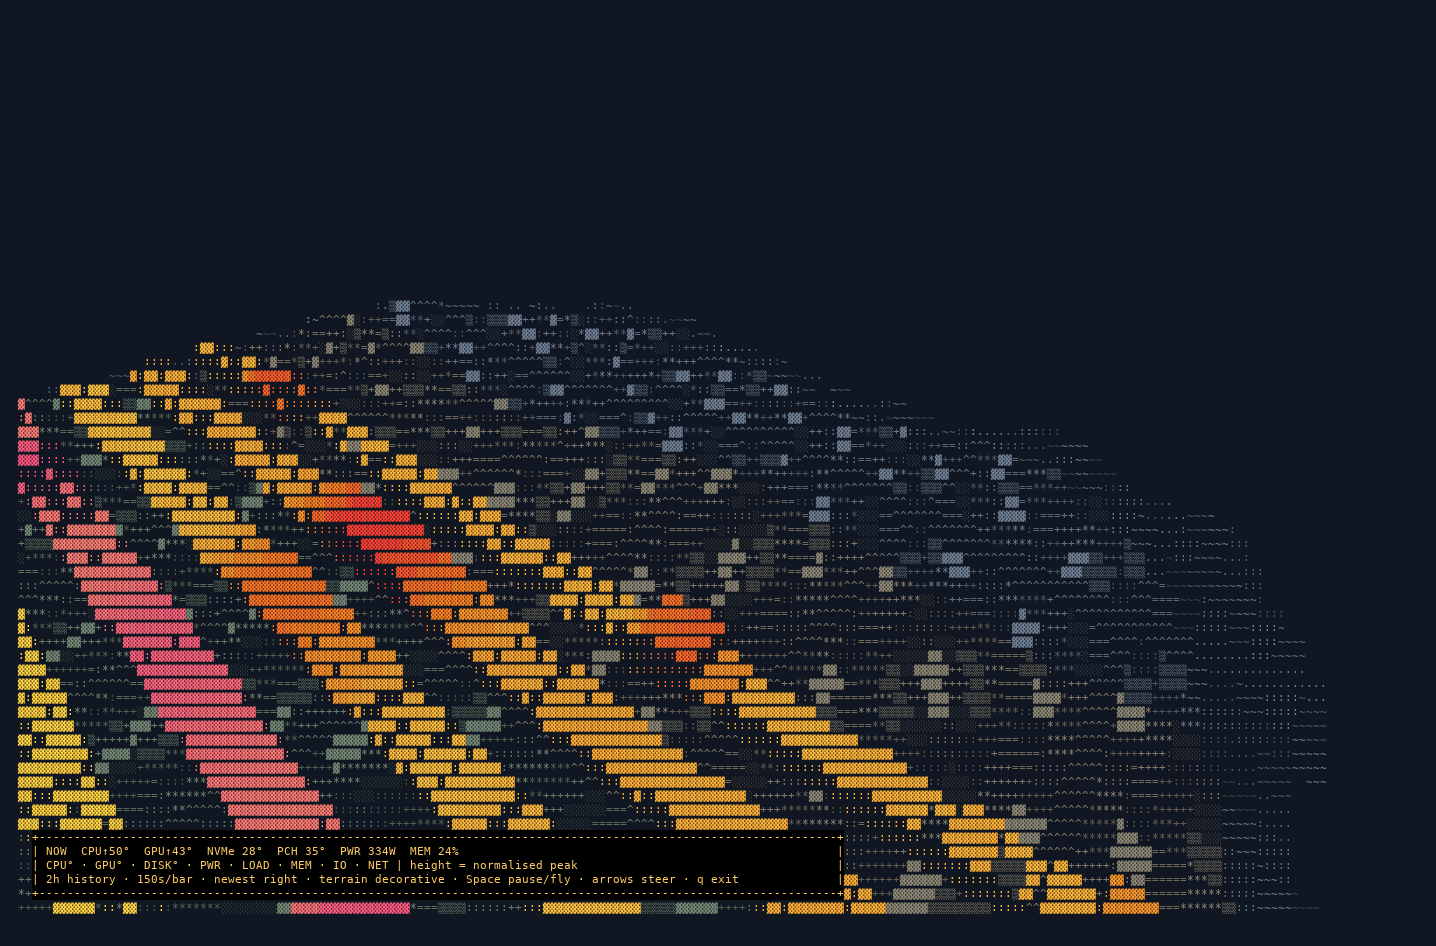
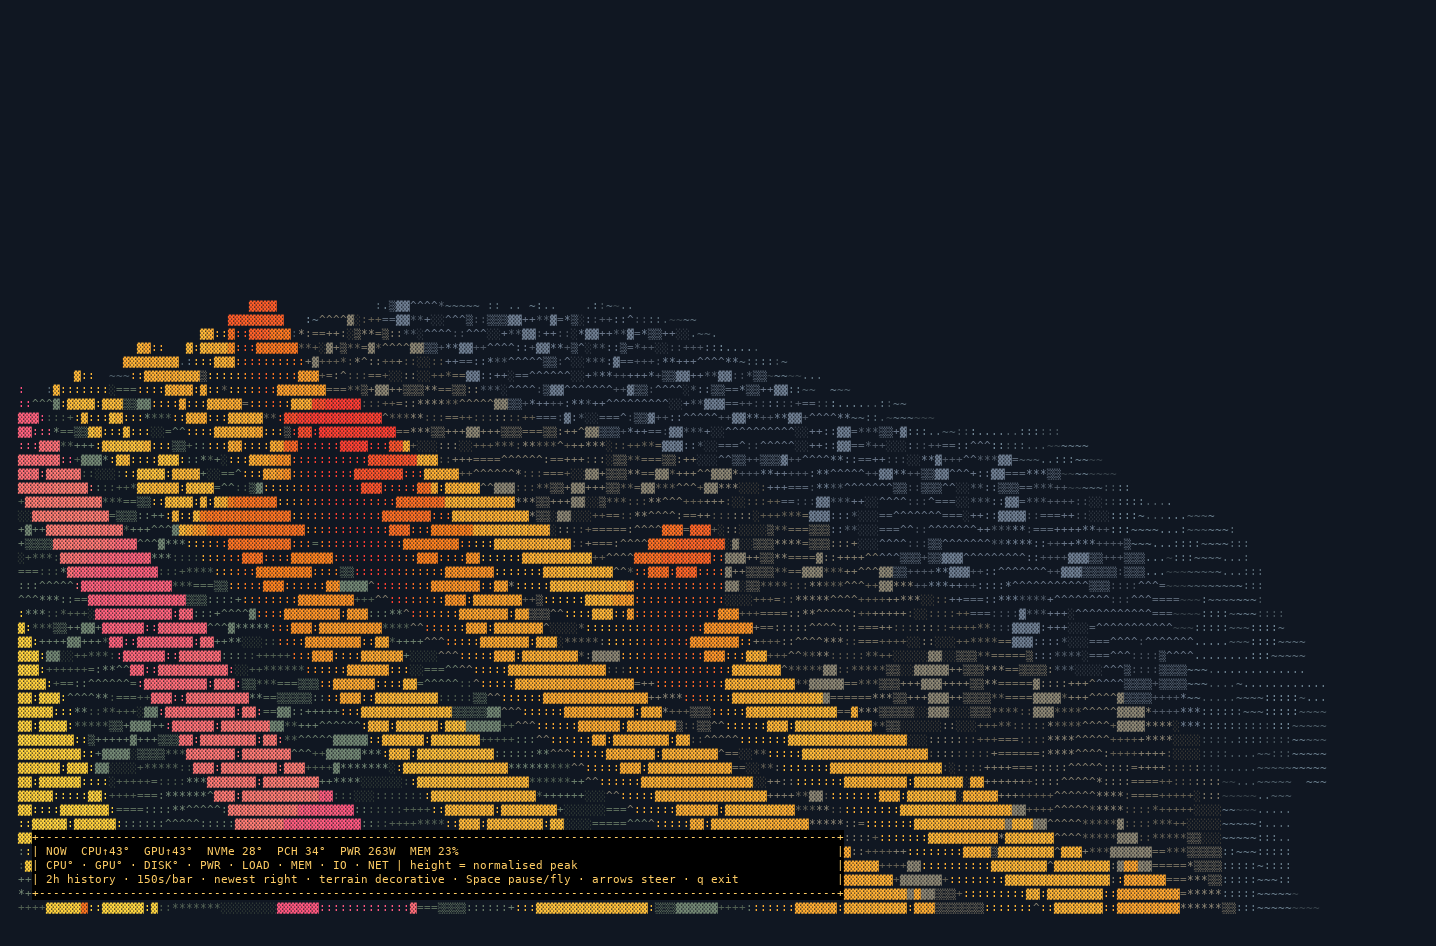
Triple telemetry bar relief above the pastel terrain

diff --git a/src/main.rs b/src/main.rs
@@ -54,6 +54,7 @@ const POLL_FRAMES: u32 = 36; // sensor poll every 2s
 const SLOT_SECS: f64 = 150.0; // one history bar per 150s
 const HISTORY: usize = 48; // 48 × 150s = 2h end to end
 const DX: f64 = 0.42; // time-axis spacing
+const STAT_RELIEF: f64 = 8.4; // 3x vertical exaggeration; normalised values remain linear
 const ROW_GAP: f64 = 1.3; // depth spacing between class walls
 const SPIN: f64 = 0.12 / 18.0; // same ~52s circuit as activity
 
@@ -427,7 +428,7 @@ fn build_scene(channels: &[Channel], scroll: f64) -> Mesh3D {
                 z,
                 0.17,
                 0.28,
-                0.15 + n * 2.8,
+                0.15 + n * STAT_RELIEF,
                 ch.scale.colour(n),
             );
         }
@@ -440,7 +441,7 @@ fn build_scene(channels: &[Channel], scroll: f64) -> Mesh3D {
                 z,
                 0.17,
                 0.28,
-                0.15 + n * 2.8,
+                0.15 + n * STAT_RELIEF,
                 ch.scale.colour(n),
             );
         }

diff --git a/README.md b/README.md
@@ -137,6 +137,8 @@ Missing sources degrade gracefully — a wall simply doesn't appear.
 - **Peak-hold downsampling**: sensors are polled every 2 s and each bar
   commits the *maximum* seen in its 150 s slot, so short spikes survive
   decimation — the whole point of a correlation display.
+- **Vertical relief**: telemetry bars use 3× height exaggeration to expose peaks above
+  the terrain. Height remains linear in each channel’s normalised value.
 - **Colour = value**: thermals run amber→orange→red, power runs
   coral→pink, load/memory gold→orange→red, throughput peach→coral→pink,
   all as 24-bit ANSI colour.
@@ -194,6 +196,7 @@ Telemetry settings are constants at the top of `src/main.rs`:
 |----------|---------|---------|
 | `SLOT_SECS` | seconds per history bar (window = 48 × this) | 150 (2 h) |
 | `HISTORY` | bars per wall | 48 |
+| `STAT_RELIEF` | normalised bar height before world scaling | 8.4 |
 | `SPIN` | flight speed, rad/frame | 0.12 / 18 (~52 s/rev) |
 | `POLL_FRAMES` | frames between sensor polls | 36 (2 s) |
 | `FPS` | render rate | 18 |
